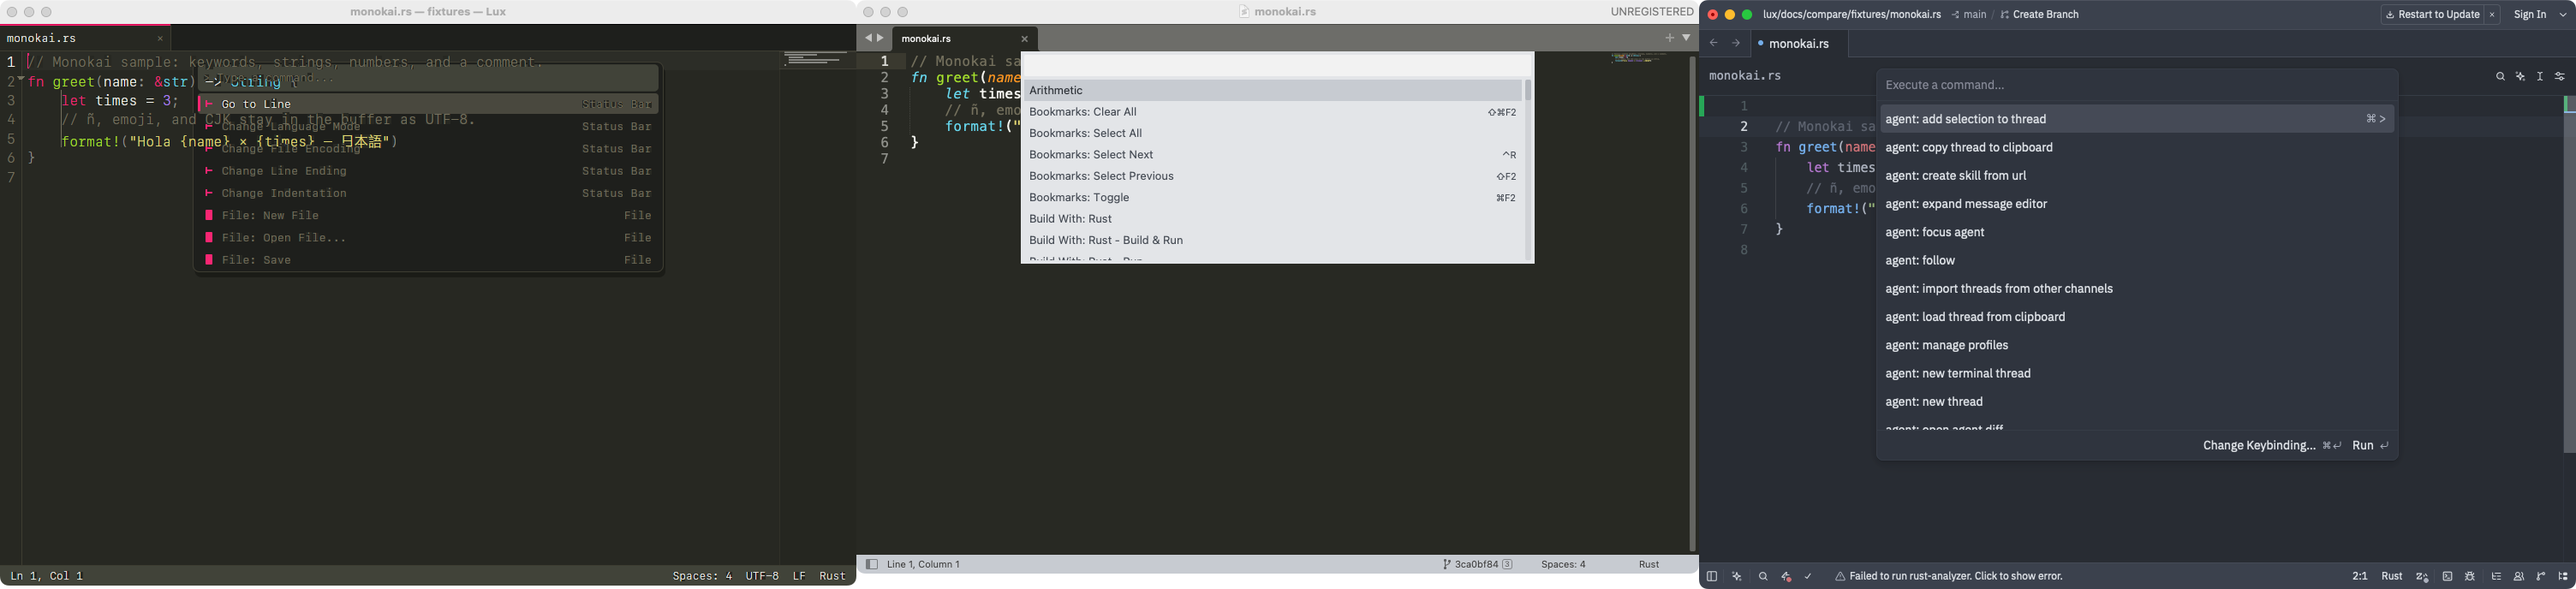
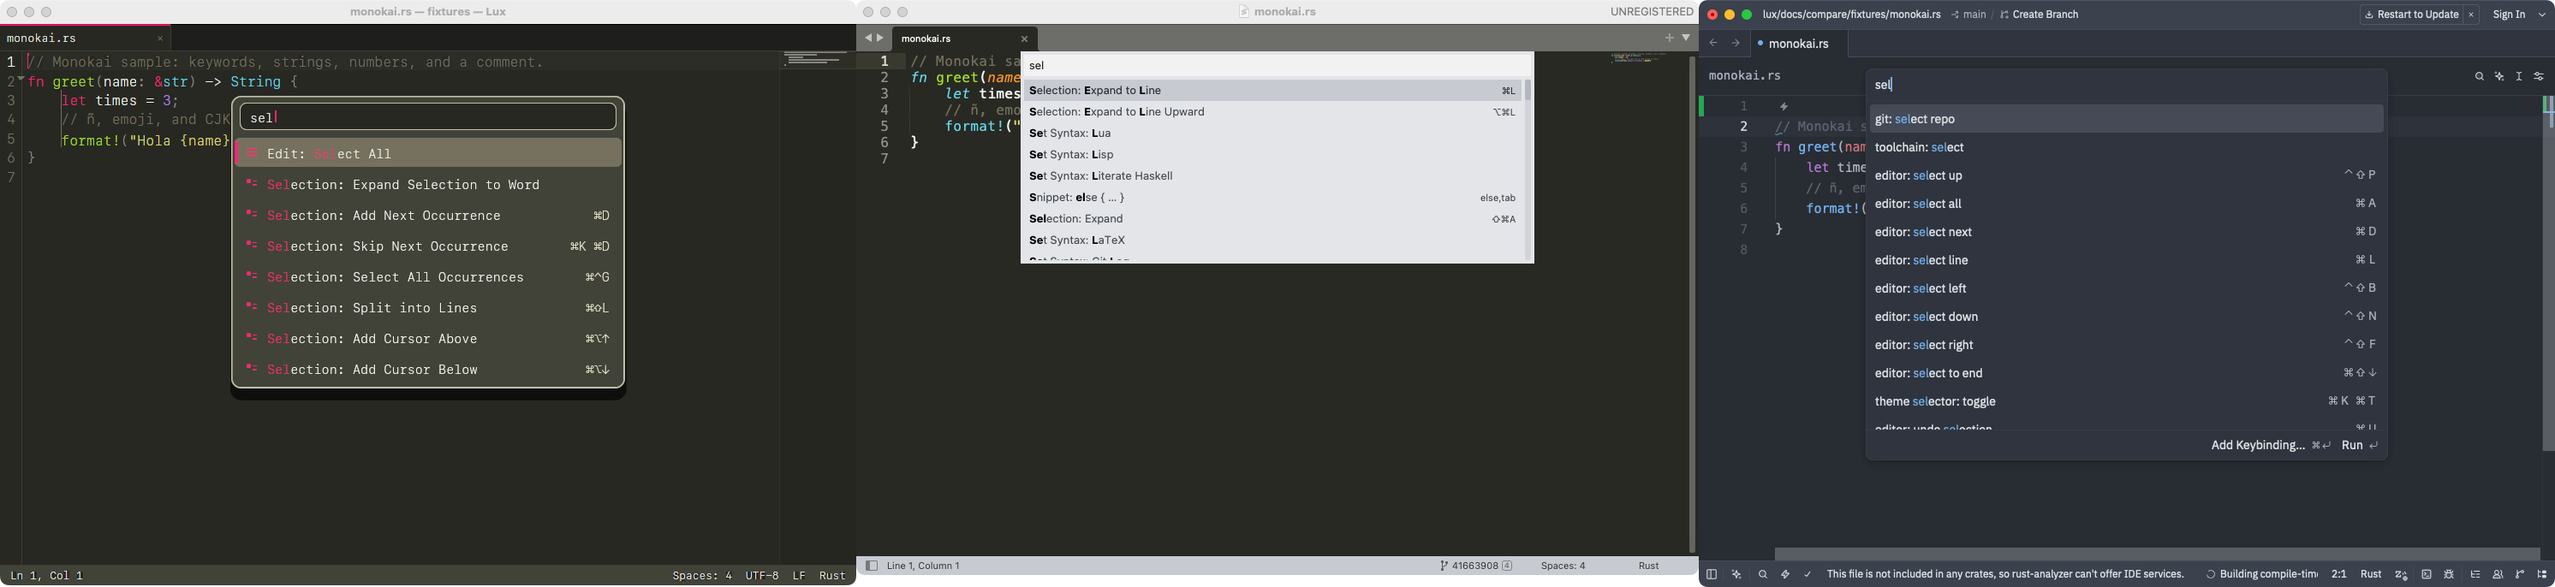
docs: commit the scale-2 palette capture from compare 41355569373
The Lux window shows the wider card, the query sel, and the editor
beside it. retina-palette.png is the renderer at scale factor 2.
The runner is 1x, so Sublime is not in that file. goto.png from this
run listed no files and is not included.

diff --git a/docs/ROADMAP.md b/docs/ROADMAP.md
@@ -39,10 +39,10 @@ that produced it:
 
 The capture above is the previous build. `docs/compare/monokai-side-by-side.png`,
 `docs/compare/characters.png`, and `docs/compare/selectors.png` are the
-macos-15 windows from compare run 41348580486. 0.1 and 0.2 hold. Forge
-rejected the Lux palette in that file: it does not separate from the code,
-and the input, rows, and shortcuts do not read. Retina pixels are not in
-that 1× capture. Block 0 stays open. No release.
+macos-15 windows from compare run 41355569373. 0.1 and 0.2 hold. The Lux
+palette in that file is the wider card with the query `sel`, on top of the
+editor. `retina-palette.png` is that frame at scale factor 2. The runner
+is 1×, so Sublime is not in the scale-2 file. Block 0 stays open. No release.
 
 1. **Monokai is the launch theme.** `workbench.colorTheme` defaults to
    `monokai`. `Chrome` starts on `Theme::MONOKAI` and does not follow the
@@ -133,11 +133,12 @@ dark input well, and a drop shadow. Placeholders are "Execute a command…",
 foreground color, the selected row is `#75715E` with an accent bar, and
 fuzzy hits use the accent. The right-hand label is the real keymap chord
 when one exists. Compare run 41348580486 is the capture Forge rejected.
-Compare run 41353967042 showed the new card and a black editor: the
-selector pass overwrote the shared instance buffer. The editor pass is
-submitted on its own before that draw. Its runner logged display scale 1,
-and `retina-palette.png` from that run is the scale-2 framebuffer with
-the same hole. A still does not show the open animation.
+Compare run 41355569373 shows the wider card, the query, the selected
+row, the accent hits, and the editor beside the card. Its runner logged
+display scale 1. `retina-palette.png` from that run is the scale-2
+framebuffer (2000×1312) with the same scene. Go to file in that run
+listed nothing, because the panel was built before the file was open.
+A still does not show the open animation.
 
 Acceptance, on top of 0.1 and 0.2: Retina text is grayscale-antialiased (or
 otherwise correct for a 2× framebuffer), with ligatures, a stable line
@@ -159,9 +160,9 @@ before that.
 - `docs/compare/characters.png` — the Lux window on the special-character
   fixture, same resolution.
 - `docs/compare/selectors.png` — Lux, Sublime Text, and Zed with the
-  command palette open. Compare run 41348580486. Forge rejected Lux in
-  that file. The runner is 1×. This row stays open until a later capture
-  holds.
+  command palette open and the query `sel`. Compare run 41355569373.
+  The runner is 1×. `retina-palette.png` is Lux's renderer at scale 2.
+  This row stays open until the comparison holds.
 
 If Lux loses that comparison, the block stays open and no release is tagged.
 
@@ -290,9 +291,10 @@ Each phase ends with new `docs/compare/` captures from the job above. Phase
 3 also commits the benchmark table. No release is tagged for a phase that
 missed its bar.
 
-1. **Phase 0, in progress.** 0.1 and 0.2 hold. The selector in compare
-   run 41348580486 does not. Retina is not in that 1× capture. Block 0
-   stays open. No release.
+1. **Phase 0, in progress.** 0.1 and 0.2 hold. Compare run 41355569373
+   shows the wider palette with the editor beside it, and
+   `retina-palette.png` is the scale-2 framebuffer. The runner is 1×.
+   Block 0 stays open. No release.
 2. **Phase 0b.** The selector capture against Sublime and Zed. Close
    block 0 only if Lux holds that comparison. That close is the first
    release this plan allows.

diff --git a/docs/STATUS.md b/docs/STATUS.md
@@ -18,15 +18,18 @@
 > border. Sublime's own minimap, breadcrumb, and lighter status chrome are
 > not copied. HiDPI text uses grayscale antialiasing when `scale_factor > 1`.
 > The job logged `display scale 1`, so the PNG does not prove Retina.
-> `docs/compare/selectors.png` from the same run shows the command palette
-> open in Lux, Sublime Text, and Zed. Forge rejected that Lux palette: it
-> is narrow, sits on the code, and the input, rows, and shortcuts do not
-> read. Compare run 41353967042 drew the wider card, the query, and the
-> shortcut column, and the editor behind that card was black: both render
-> passes shared one instance buffer, so the selector draw replaced the
-> editor before the GPU ran it. The editor pass is now submitted first.
-> Those PNGs are not in `docs/compare/` yet. Block 0 stays open. No release
-> is tagged. A still does not show the open animation. See [ROADMAP.md](ROADMAP.md).
+> `docs/compare/selectors.png` (compare run 41355569373) shows the command
+> palette in Lux, Sublime Text, and Zed with the query `sel`. Lux's card
+> is about half the window, sits below the tab bar with a shadow, and the
+> editor (`#272822`, line `#2C2D27`) stays visible beside it. The field
+> shows `sel`, the selected row is a light band, fuzzy hits are the accent,
+> and the keymap chords are on the right. `docs/compare/theme.png` from
+> that run shows the theme picker with `mo`. `docs/compare/retina-palette.png`
+> is the same Lux frame from the renderer at scale factor 2 (2000×1312).
+> The runner logged display scale 1, so Sublime is not in that file.
+> Go to file in that run drew only the field: the list was built before
+> the file existed. Block 0 stays open. No release is tagged. A still
+> does not show the open animation. See [ROADMAP.md](ROADMAP.md).
 >
 > Current gap matrix (2026-10-31): [ROADMAP.md](ROADMAP.md). Historical audit: [AUDIT.md](AUDIT.md).
 > v1.3.1: macOS is the product focus. Linux and Windows are secondary.

diff --git a/docs/compare/README.md b/docs/compare/README.md
@@ -6,16 +6,18 @@ opens `fixtures/monokai.rs` in both with Monokai, and opens
 `fixtures/characters.txt` in Lux. `screencapture -l` records the real
 windows. ImageMagick joins the Monokai pair.
 
-Committed PNGs are copies of compare run 41348580486. Compare run
-41353967042 is not committed: its Lux window showed the selector on a
-black editor because both passes shared one instance buffer. A file that
-did not come from the job is not a comparison. If Sublime Text cannot be captured,
+`selectors.png`, `theme.png`, `retina-palette.png`, `characters.png`, and
+`monokai-side-by-side.png` are copies of compare run 41355569373.
+`goto.png` from that run is not committed: Lux listed no files. A file
+that did not come from the job is not a comparison. If Sublime Text cannot be captured,
 the job fails and does not write a replacement image.
 
 `selectors.png` is the same job with a query typed: Lux
 (`lux --palette --query sel`), Sublime Text (`show_overlay` with
 `text: sel`), and Zed (Cmd-Shift-P, then `sel`). `goto.png` is go to
-file with `mon`. `theme.png` is Lux and Sublime's color-scheme pickers
+file with `mon`. Lux opens the fixtures directory for that shot, so the
+list is the folder index (`monokai.rs`), not an empty panel from a file
+that has not loaded yet. `theme.png` is Lux and Sublime's color-scheme pickers
 with `mo`; Zed's pane is its command palette filtered to `theme`,
 because this capture has no shortcut that opens Zed's theme selector.
 Zed is installed with `brew install --cask zed` and opened
